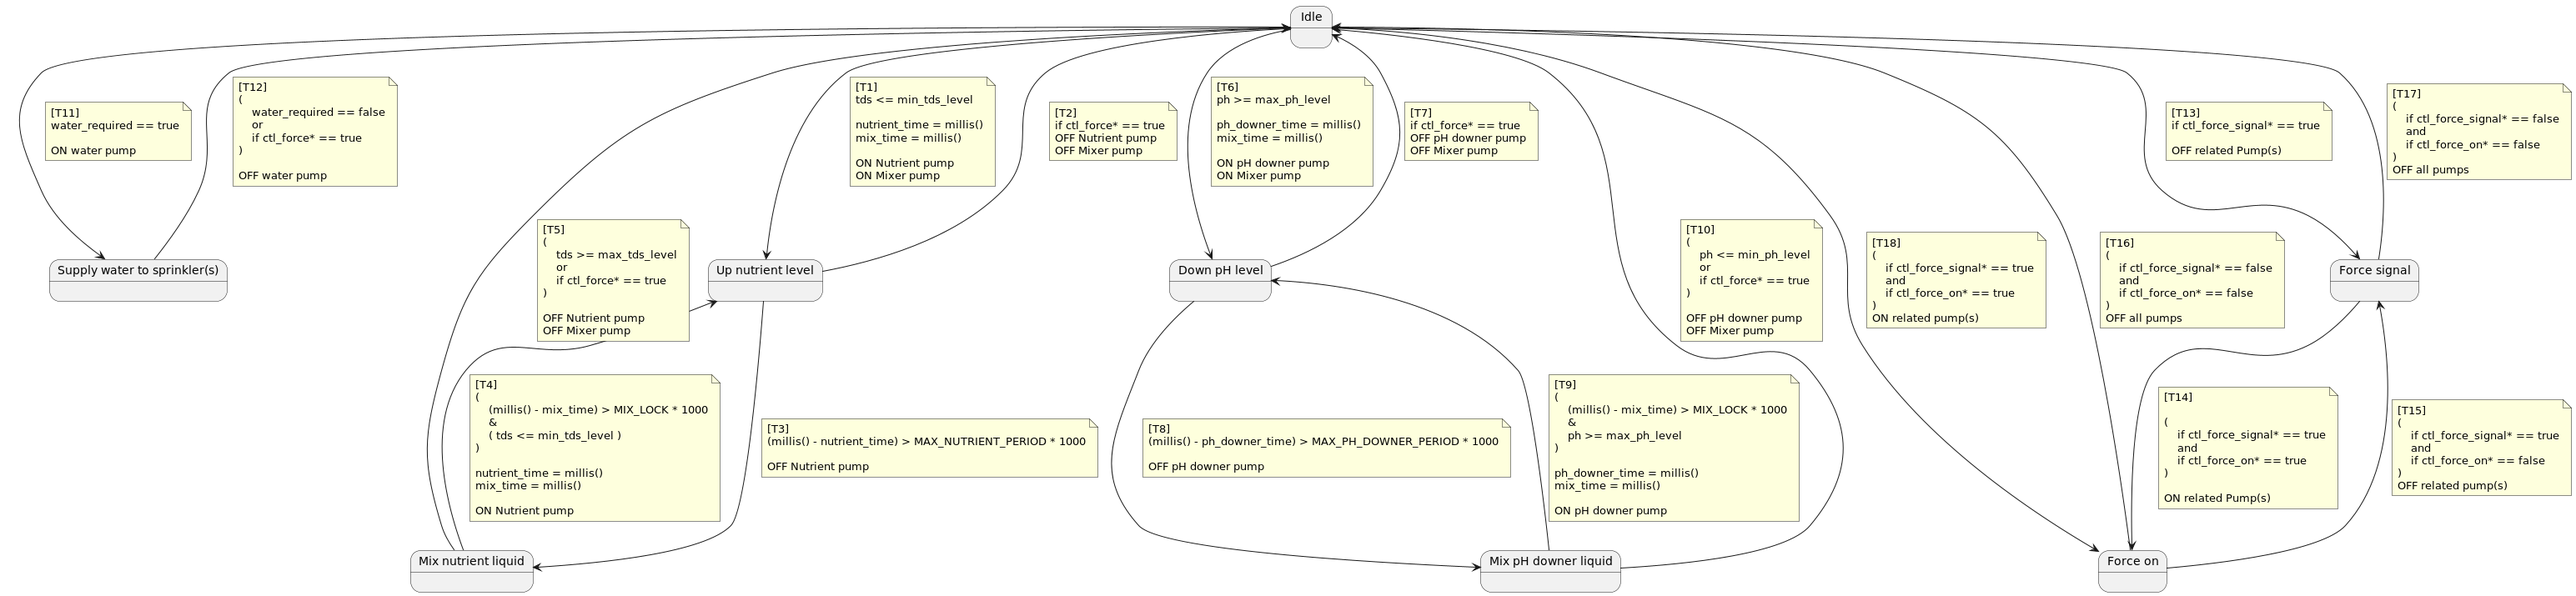
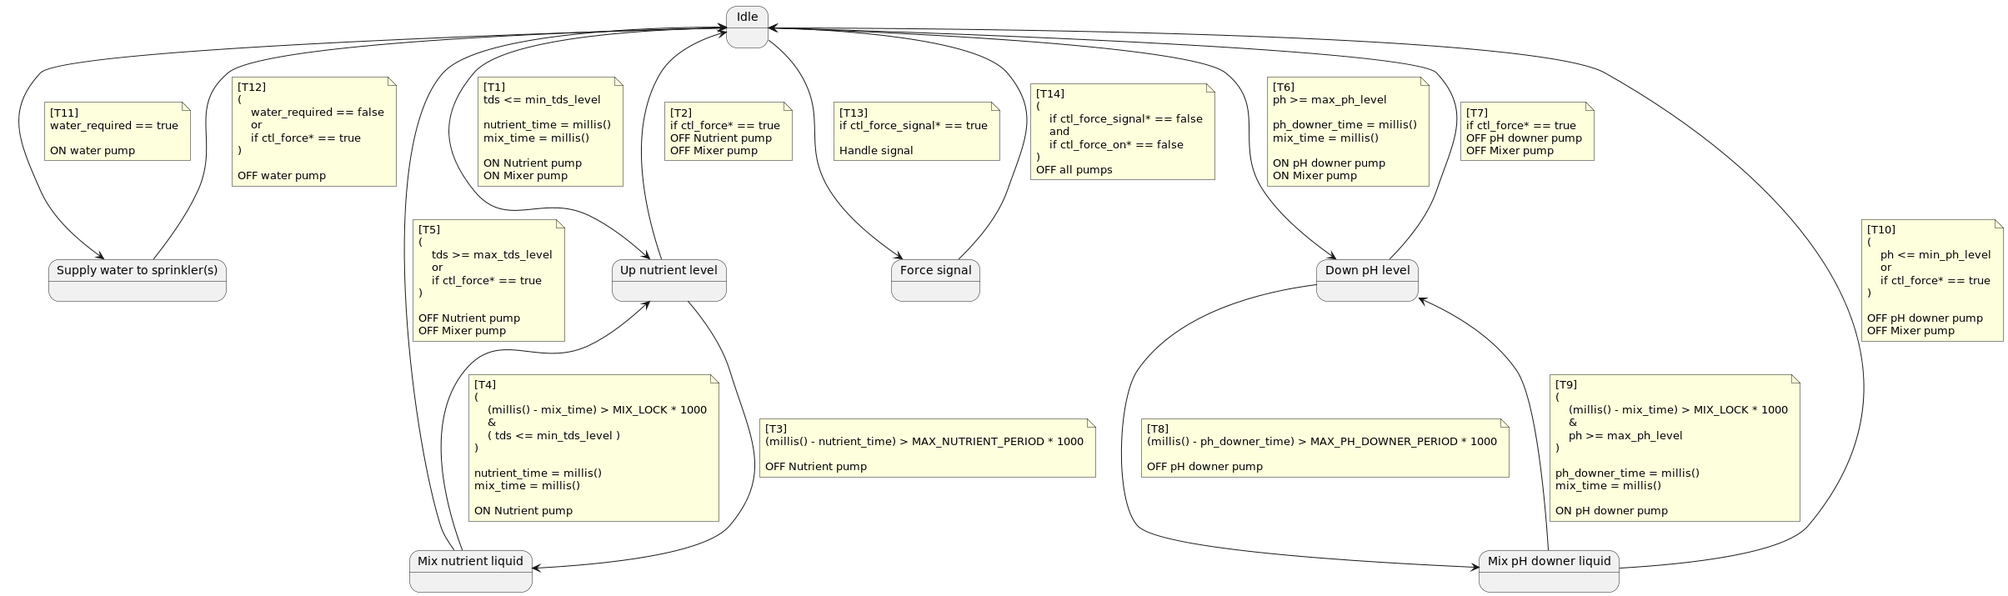
feat(water/master_esp32/src/main.cpp): implement state transition T6 to T14, simply force state

diff --git a/water/master_esp32/src/main.cpp b/water/master_esp32/src/main.cpp
@@ -50,9 +50,6 @@ bool mqttCallbackInError = false; // if callback received = false, if safetyClos
 
 // Parameter from Core
 bool  ctl_water_pump              = false;
-bool  ctl_nutrient_pump           = false;
-bool  ctl_ph_downer_pump          = false;
-bool  ctl_mixer_pump              = false;
 float ctl_ph_level_min            = 0;
 float ctl_ph_level_max            = 0;
 float ctl_tds_level_min           = 0;
@@ -149,12 +146,6 @@ void mqttCallback(char *topic, byte *message, unsigned int length) {
     /* Parse params from MQTT Payload*/
     //Parsing Water Pumps param
     ctl_water_pump = obj[String("p1")];
-    //Parsing Nutrient Pumps param
-    ctl_nutrient_pump = obj[String("p2")];
-    //Parsing PH Downer Pumps param
-    ctl_ph_downer_pump = obj[String("p3")];
-    // Parsing PH Downer Pumps param
-    ctl_mixer_pump = obj[String("p4")];
     // pH min/max config
     ctl_ph_level_min = obj[String("pmin")];
     ctl_ph_level_max = obj[String("pmax")];
@@ -175,13 +166,26 @@ void mqttCallback(char *topic, byte *message, unsigned int length) {
 
 }
 
-bool check_force()
+bool check_force_signal()
 {
-    bool _[16] = {
+    bool _[4] = {
         force_water_pump_signal,
         force_nutrient_pump_signal,
         force_ph_downer_pump_signal,
         force_mixer_pump_signal,
+    };
+
+    for (byte i = 0; i < sizeof(_) - 1; i++)
+    {
+        if (_[i]) return true ;
+    }
+
+    return false;
+}
+
+bool check_force_on()
+{
+    bool _[4] = {
         water_pump_signal,
         nutrient_pump_signal,
         ph_downer_pump_signal,
@@ -306,14 +310,41 @@ void loop() {
                 io_handler.OnMixerPump();
                 state = UP_NUTRIENT_LEVEL;
             }
+            // T6
+            if (ph_level >= ctl_ph_level_max )
+            {
+                ph_downer_time = millis();
+                mix_time = millis();
+                io_handler.OnPhDownerPump();
+                io_handler.OnMixerPump();
+                state = DOWN_PH_LEVEL ;
+            }
+            // T11
+            if (ctl_water_pump)
+            {
+                io_handler.OnWaterPump();
+                state = WATER_PUMP_ON;
+            }
+
+            // T13
+            if (check_force_signal)
+            {
+                state = FORCE_SIGNAL;
+            }
         break;
 
         case WATER_PUMP_ON:
+            // T12
+            if (ctl_water_pump)
+            {
+                io_handler.OffWaterPump();
+                state = IDLE;
+            }
         break;
 
         case UP_NUTRIENT_LEVEL:
             // T2
-            if (check_force() == true)
+            if (check_force_signal())
             {
                 io_handler.OffNutrientPump();
                 io_handler.OffMixerPump();
@@ -325,10 +356,10 @@ void loop() {
                 io_handler.OffNutrientPump();
                 state = MIX_NUTRIENT_LIQUID;
             }
+
         break;
 
         case MIX_NUTRIENT_LIQUID:
-
             // T4
             if ( (millis() - mix_time) > MIX_LOCK * 1000 )
             {
@@ -341,7 +372,7 @@ void loop() {
             if (
                 tds_level >= ctl_tds_level_max
                 ||
-                check_force() == true
+                check_force_signal()
             )
             {
                 io_handler.OffNutrientPump();
@@ -352,16 +383,63 @@ void loop() {
         break;
 
         case DOWN_PH_LEVEL:
+            // T7
+            if (check_force_signal())
+            {
+                io_handler.OffPhDownerPump();
+                io_handler.OffMixerPump();
+                state = IDLE;
+            }
+            // T8
+            if ( (millis() - ph_downer_time) > MAX_PH_DOWNER_INJECTION * 1000 )
+            {
+                io_handler.OffPhDownerPump();
+                state = MIX_PH_DOWNER_LIQUID;
+            }
         break;
 
         case MIX_PH_DOWNER_LIQUID:
+            // T9
+            if ( (millis() - mix_time ) > MIX_LOCK * 1000 )
+            {
+                ph_downer_time = millis();
+                mix_time = millis();
+                io_handler.OnPhDownerPump();
+                state = DOWN_PH_LEVEL;
+            }
+            // T10
+            if ( ph_level <= ctl_ph_level_min & check_force_signal())
+            {
+                io_handler.OffPhDownerPump();
+                io_handler.OffMixerPump();
+                state = IDLE;
+            }
         break;
 
         case FORCE_SIGNAL:
+            // T14
+            if (!check_force_signal())
+            {
+                io_handler.OffWaterPump();
+                io_handler.OffNutrientPump();
+                io_handler.OffPhDownerPump();
+                io_handler.OffMixerPump();
+                state = IDLE;
+            }
+            // handle water pump
+            if (force_water_pump_signal & water_pump_signal) { io_handler.OnWaterPump(); }
+            if (force_water_pump_signal & !water_pump_signal) { io_handler.OffWaterPump(); }
+            // handle nutrient pump
+            if (force_nutrient_pump_signal & nutrient_pump_signal) { io_handler.OnNutrientPump(); }
+            if (force_nutrient_pump_signal & !nutrient_pump_signal) { io_handler.OffNutrientPump(); }
+            // handle pH downer pump
+            if (force_ph_downer_pump_signal & ph_downer_pump_signal) { io_handler.OnPhDownerPump(); }
+            if (force_ph_downer_pump_signal & !ph_downer_pump_signal) { io_handler.OffPhDownerPump(); }
+            // handle mixer pump
+            if (force_mixer_pump_signal & mixer_pump_signal) { io_handler.OnMixerPump(); }
+            if (force_mixer_pump_signal & !mixer_pump_signal) { io_handler.OffMixerPump(); }
         break;
 
-        case FORCE_SIGNAL_ON:
-        break;
     }
 
     // Clear Watch dog
